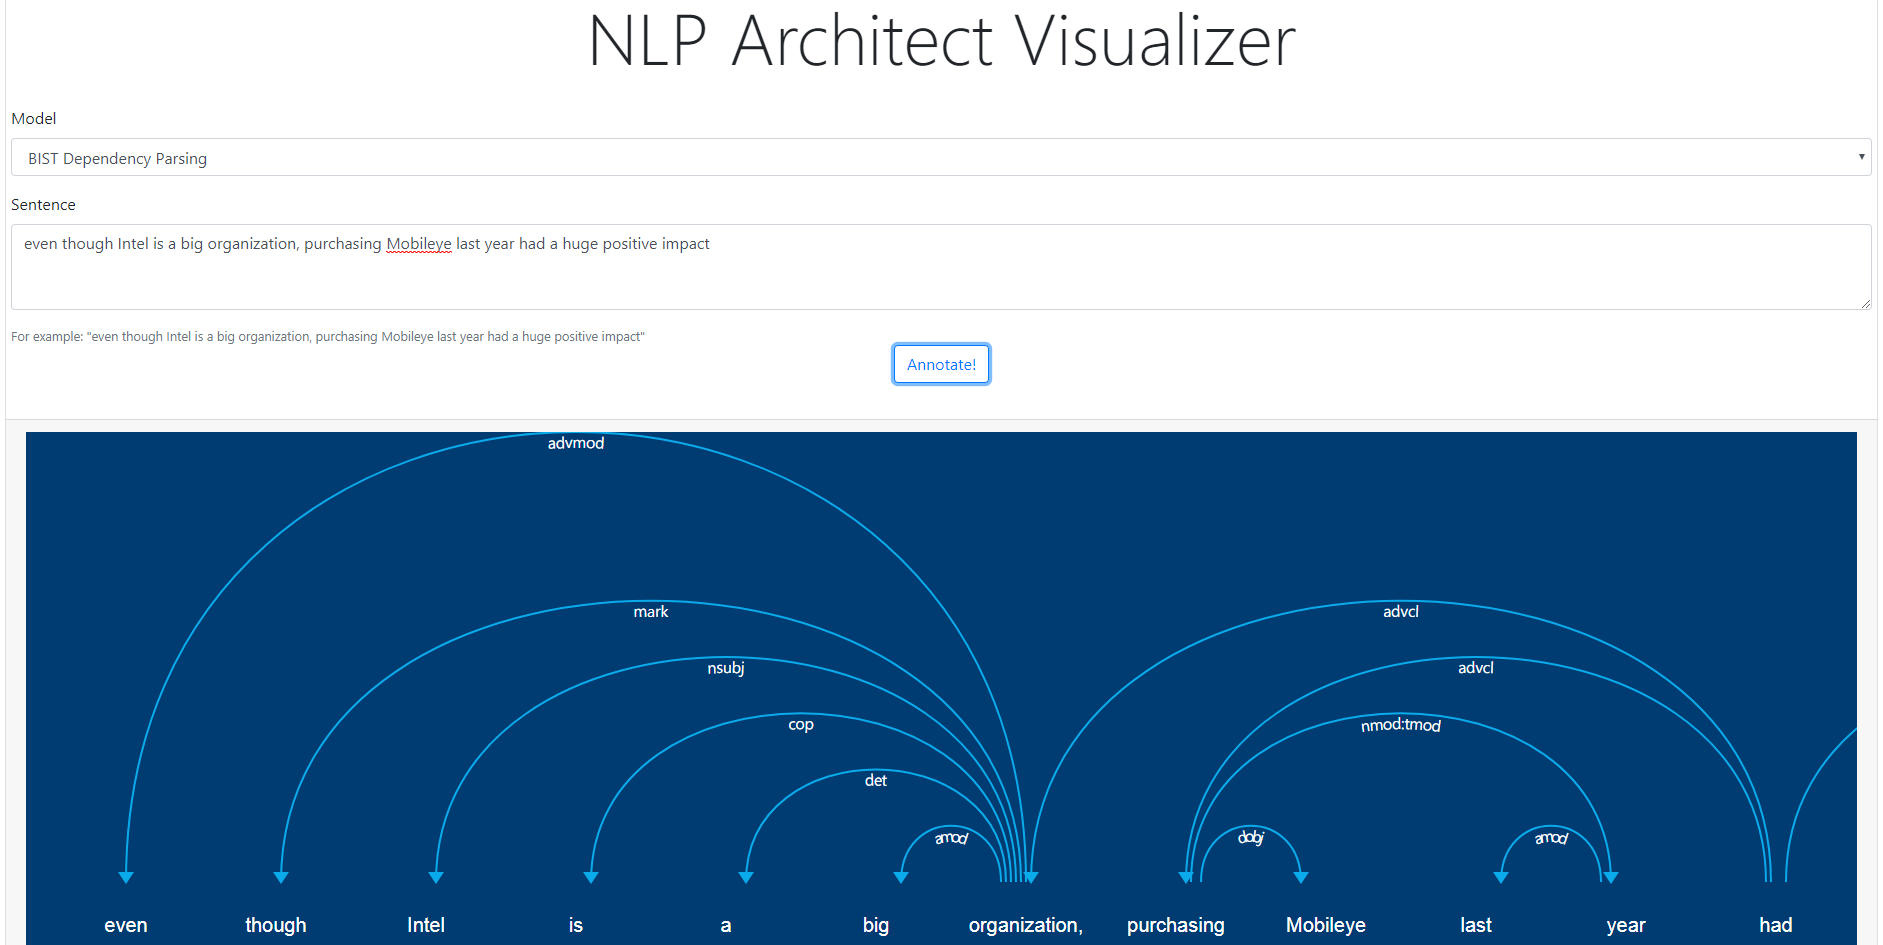
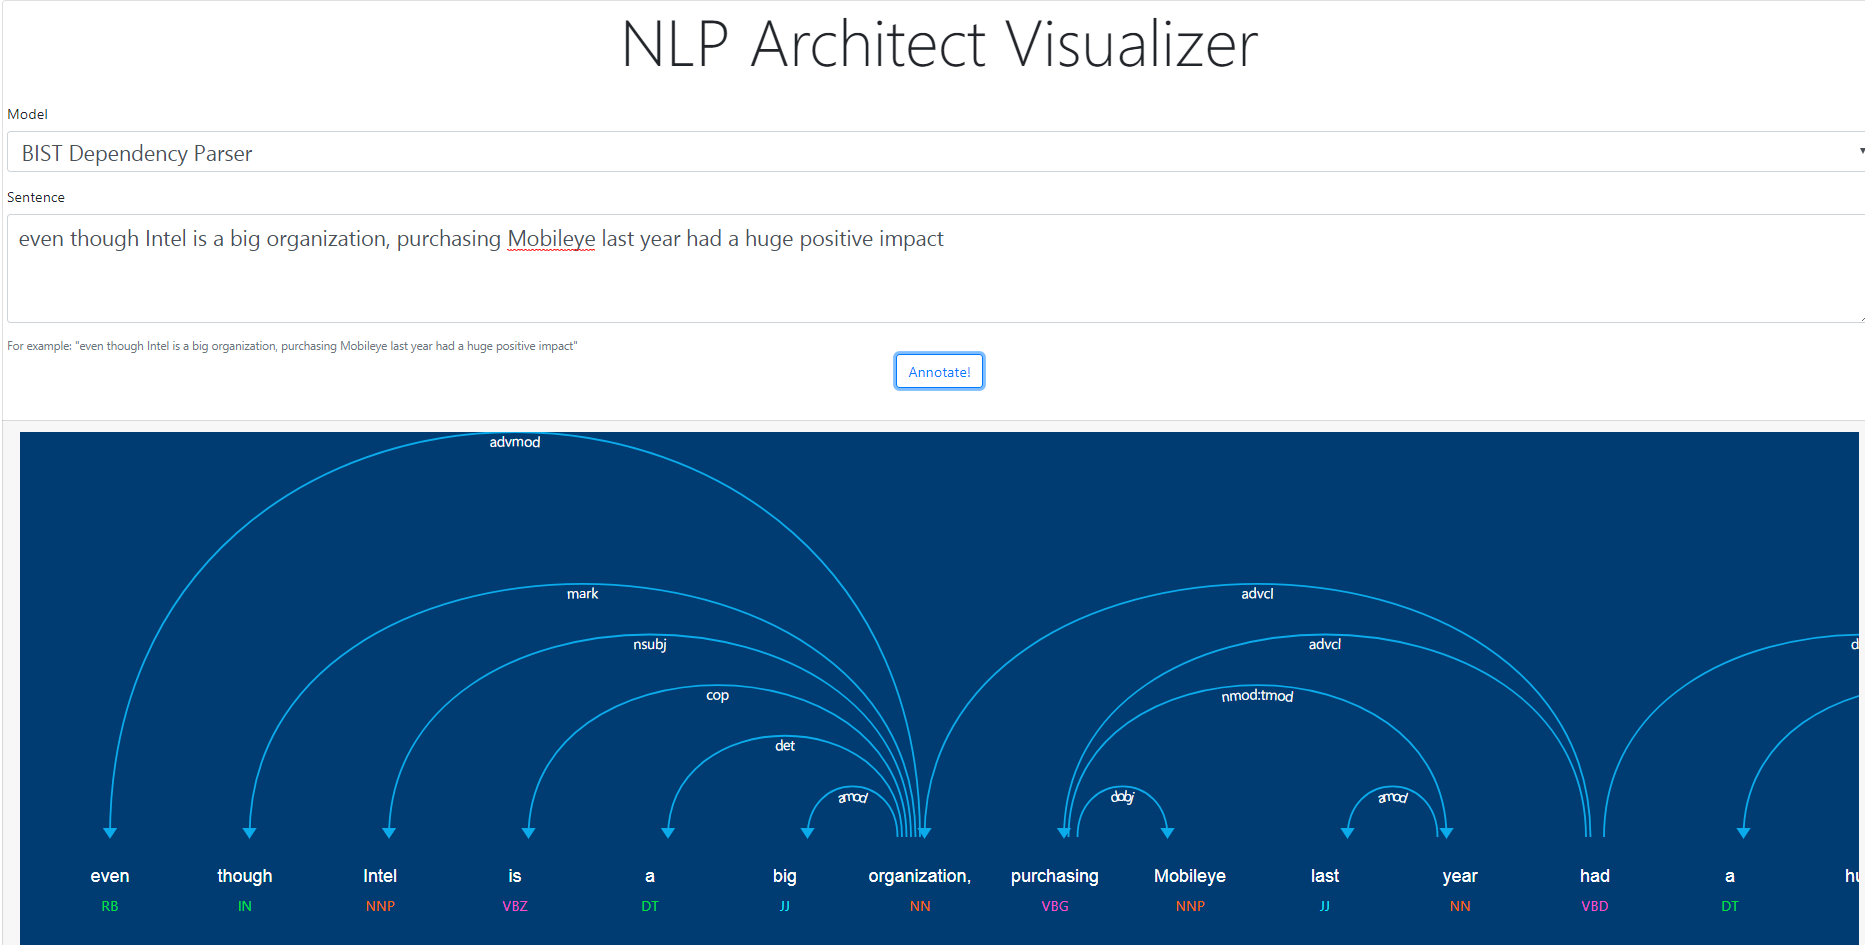
Fixed error where if a header wasn't present, then response would fail

diff --git a/server/web_service/static/script.js b/server/web_service/static/script.js
@@ -18,7 +18,7 @@ const api = '/inference';
 const models = [
     { name: 'ner', description: 'Name Entity Recognition'},
     { name: 'spacy_ner', description: 'Name Entity Recognition using spacy',},
-    { name: 'bist', description: 'BIST Dependency Parsing'}
+    { name: 'bist', description: 'BIST Dependency Parser'}
 ];
 
 let annotateForm = document.getElementById('annotateForm');

diff --git a/server/serve.py b/server/serve.py
@@ -20,7 +20,7 @@ import gzip
 import json
 from falcon import status_codes
 from server.service import format_response
-from server.service import Service
+from server.service import Service, parse_headers
 services = {}
 
 api = hug.API(__name__)
@@ -29,7 +29,6 @@ api = hug.API(__name__)
 @hug.post()
 def inference(request, body, response):
     """Makes an inference to a certain model"""
-    # Consider putting model_name as a param
     if(request.headers.get('CONTENT-TYPE') == 'application/gzip'):
         try:
             original_data = gzip.decompress(request.stream.read())
@@ -55,7 +54,8 @@ def inference(request, body, response):
     if not isinstance(input_docs, list):  # check if it's an array instead
         response.status = status_codes.HTTP_400
         return {'status': 'request not in proper format '}
-    parsed_doc = services[model_name].get_service_inference(input_docs, request.headers)
+    headers = parse_headers(request.headers)
+    parsed_doc = services[model_name].get_service_inference(input_docs, headers)
     resp_format = request.headers["RESPONSE-FORMAT"]
     ret = format_response(resp_format, parsed_doc)
     if(request.headers.get('CONTENT-TYPE') == 'application/gzip'):
@@ -66,12 +66,7 @@ def inference(request, body, response):
         return ret
 
 
-@hug.static('/')
+@hug.static()
 def static():
     """Statically serves a directory to client"""
     return [os.path.realpath(os.path.join('./', 'server/web_service/static'))]
-
-
-@hug.not_found()
-def not_found_handler():
-    return "Not Found"

diff --git a/doc/source/service.rst b/doc/source/service.rst
@@ -71,7 +71,7 @@ The server supports 2 types of Responses (see `Annotation Structure Types - Serv
 
 Examples for running NLP Architect server
 =========================================
-We currently support only 2 services:
+We currently support 3 services:
 
 - BIST parser - Core NLP models annotation structure
 
@@ -81,13 +81,18 @@ to `http://localhost:8080/inference`, and receive `CoreNLPDoc` annotation struct
 
 .. image :: assets/bist_service.png
 
-- Spacy NER - High-level models annotation structure
+- Spacy NER, NER - High-level models annotation structure
 
 Once the server is up and running you can go to `http://localhost:8080`
 and check out a few test sentences, or you can send a Post request (as described above)
 to `http://localhost:8080/inference`, and receive `HighLevelDoc` annotation structure response.
 
+Spacy NER:
+
 .. image :: assets/spacy_ner_service.png
+
+NER:
+
 .. image :: assets/ner_service.png
 
 You can also take a look at the tests (tests/nlp_architect_server) to see more examples.
